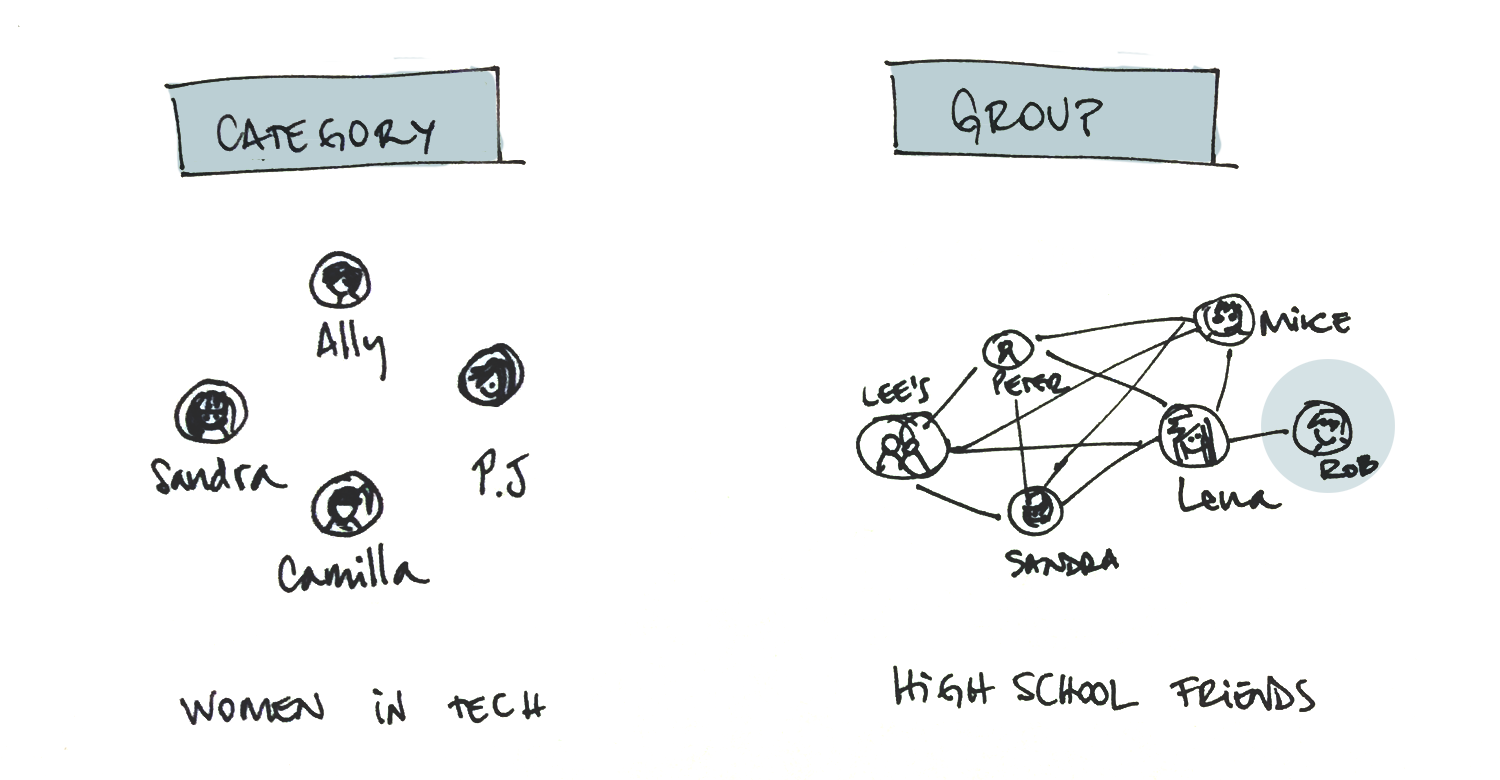
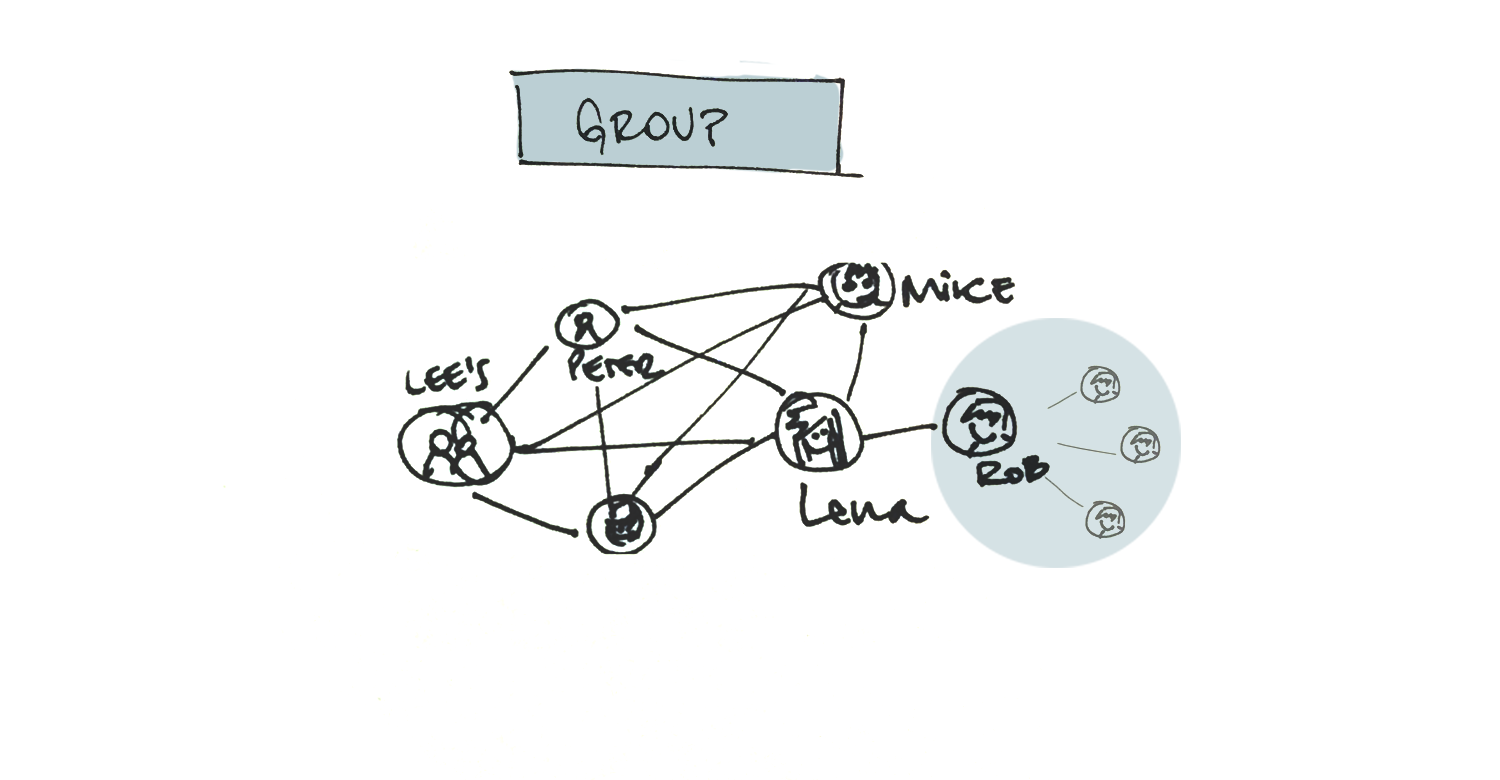
pucblish

diff --git a/index.html b/index.html
@@ -34,7 +34,7 @@
            <br />
             <h1>Global Friends</h1>
             <p>
-                A digital experience for...
+                A digital experience for organizing your international friendships 
             </p>
 
         </div>
@@ -78,6 +78,7 @@ Some interesting findings of this exercise were:</p>
     <li data-target="#carousel-example-generic" data-slide-to="0" class="active"></li>
     <li data-target="#carousel-example-generic" data-slide-to="1"></li>
     <li data-target="#carousel-example-generic" data-slide-to="2"></li>
+     <li data-target="#carousel-example-generic" data-slide-to="3"></li>
   </ol>
 
   <!-- Wrapper for slides -->
@@ -85,22 +86,47 @@ Some interesting findings of this exercise were:</p>
     <div class="item active">
       <img src="bootstrap/img/groups.png"/>
       <div class="carousel-caption">
-        <h3>'categories' and 'groups'</h3>
-        <p>1. People use both 'categories' and 'groups' to organize their friends:<br /> Some friends may share a category (women in tech) but they're not part of a 'group' (high school friends)</p>
+        <h3>People use both 'categories' and 'groups' to organize their friends:</h3>
+        <p> Some friends may share a category (women in tech) but they're not part of a 'group' (high school friends)</p>
       </div>
+
     </div>
+    <!--   <div class="item">
+      <img src="bootstrap/img/groups.png"/>
+      <div class="carousel-caption">
+        <h3>Common origin</h3>
+        <p>  Distinct categories of friends are based in the friendship's origin (temporal/location based/ institutional)</p>
+      </div>
+
+    </div> -->
+     
+
     <div class="item">
-      <img src="bootstrap/img/group-bff.png"/>
+      <img src="bootstrap/img/group-connected.png"/>
       <div class="carousel-caption">
         <h3>People in groups are interconnected</h3>
         <p> Group members know each other and are friends in most cases.</p>
       </div>
     </div>
     <div class="item">
+      <img src="bootstrap/img/group-bff1.png"/>
+      <div class="carousel-caption">
+        <h3>Subgroups</h3>
+        <p>Each distinct group of friends has different sub groups based on emotional closeness or interests in common</p>
+      </div>
+    </div>
+    <div class="item">
+      <img src="bootstrap/img/group-funct.png"/>
+      <div class="carousel-caption">
+        <h3>Functional ubgroups</h3>
+        <p>People use grouping to communicate to a specific audience</p>
+      </div>
+    </div>
+    <div class="item">
       <img src="bootstrap/img/group-extra.png"/>
       <div class="carousel-caption">
-         <h3>Subgroups: e.g: BFF</h3>
-        <p>Each distinct group of friends has different sub groups based on emotional closeness or interests in common</p>
+         <h3>Outer Groups:</h3>
+        <p>Each distinct group of friends has a group or 'friends by association' attached to it, made of friends of friends or partners of friends</p>
       </div>
     </div>
   </div>
@@ -113,12 +139,8 @@ Some interesting findings of this exercise were:</p>
     <span class="glyphicon glyphicon-chevron-right"></span>
   </a>
 </div>
-
-
 <p> 
- 3. Distinct categories of friends are based in the friendship's origin (temporal/location based/ institutional)<br />
- 4. <br />
- 5. Each distinct group of friends has a group or 'friends by association' attached to it, made of friends of friends or partners of friends.</p>
+
 
 <a class="row" href="bootstrap/img/affinity.png" target="_blank"> <img class=" col-sm-10 col-xs-12 col-md-10 col-lg-10" src="bootstrap/img/affinity.png"/> </a>  
 
@@ -258,8 +280,8 @@ Some other common use cases were:</p>
                               
                             <hr/>
                             <a href="bootstrap/img/wireframes-hotel-mlobos.pdf" target="_blank">
-                                <img class="col-sm-12 col-xs-12 col-md-12 col-lg-12" src="bootstrap/img/wire.png"/>
-                               </a> 
+                                <!-- <img class="col-sm-12 col-xs-12 col-md-12 col-lg-12" src="bootstrap/img/wire.png"/>
+                               </a>  -->
                   
                       </div>
                     </div>

diff --git a/bootstrap/css/bootstrap.css b/bootstrap/css/bootstrap.css
@@ -4163,7 +4163,7 @@ button.close {
 }
 .carousel-indicators {
   position: absolute;
-  bottom: 5px;
+  bottom: 0px;
   left: 50%;
   z-index: 15;
   width: 60%;
@@ -4192,16 +4192,23 @@ button.close {
 }
 .carousel-caption {
   position: absolute;
-  display: block;
-  width: 100%;
-  background-color: rgba(0, 0, 0, 0.62);
-  bottom: 0px;
-  z-index: 10;
-  padding-top: 20px;
-  padding-bottom: 35px;
-  color: #ffffff;
-  text-align: center;
-  text-shadow: 0 1px 2px rgba(0, 0, 0, 0.6);
+display: block;
+width: 100%;
+background-color: rgba(180, 198, 204, 0.49);
+bottom: -5px;
+z-index: 10;
+padding-top: 10px;
+padding-bottom: 15px;
+padding-left: 15px;
+padding-right: 15px;
+color: #000000;
+text-align: center;
+text-shadow: 0 1px 2px rgba(255, 255, 255, 0.6);
+
+}
+
+.carousel-caption h3{padding-top: 5px; margin-top: 2px; text-transform: uppercase; font-size: 120%;
+
 }
 .carousel-caption .btn {
   text-shadow: none;
@@ -4225,10 +4232,10 @@ button.close {
     margin-right: -15px;
   }
   .carousel-caption {
-    padding-bottom: 35px;
+    padding-bottom: 15px;
   }
   .carousel-indicators {
-    bottom: 5px;
+    bottom: 2px;
   }
 }
 .clearfix:before,
